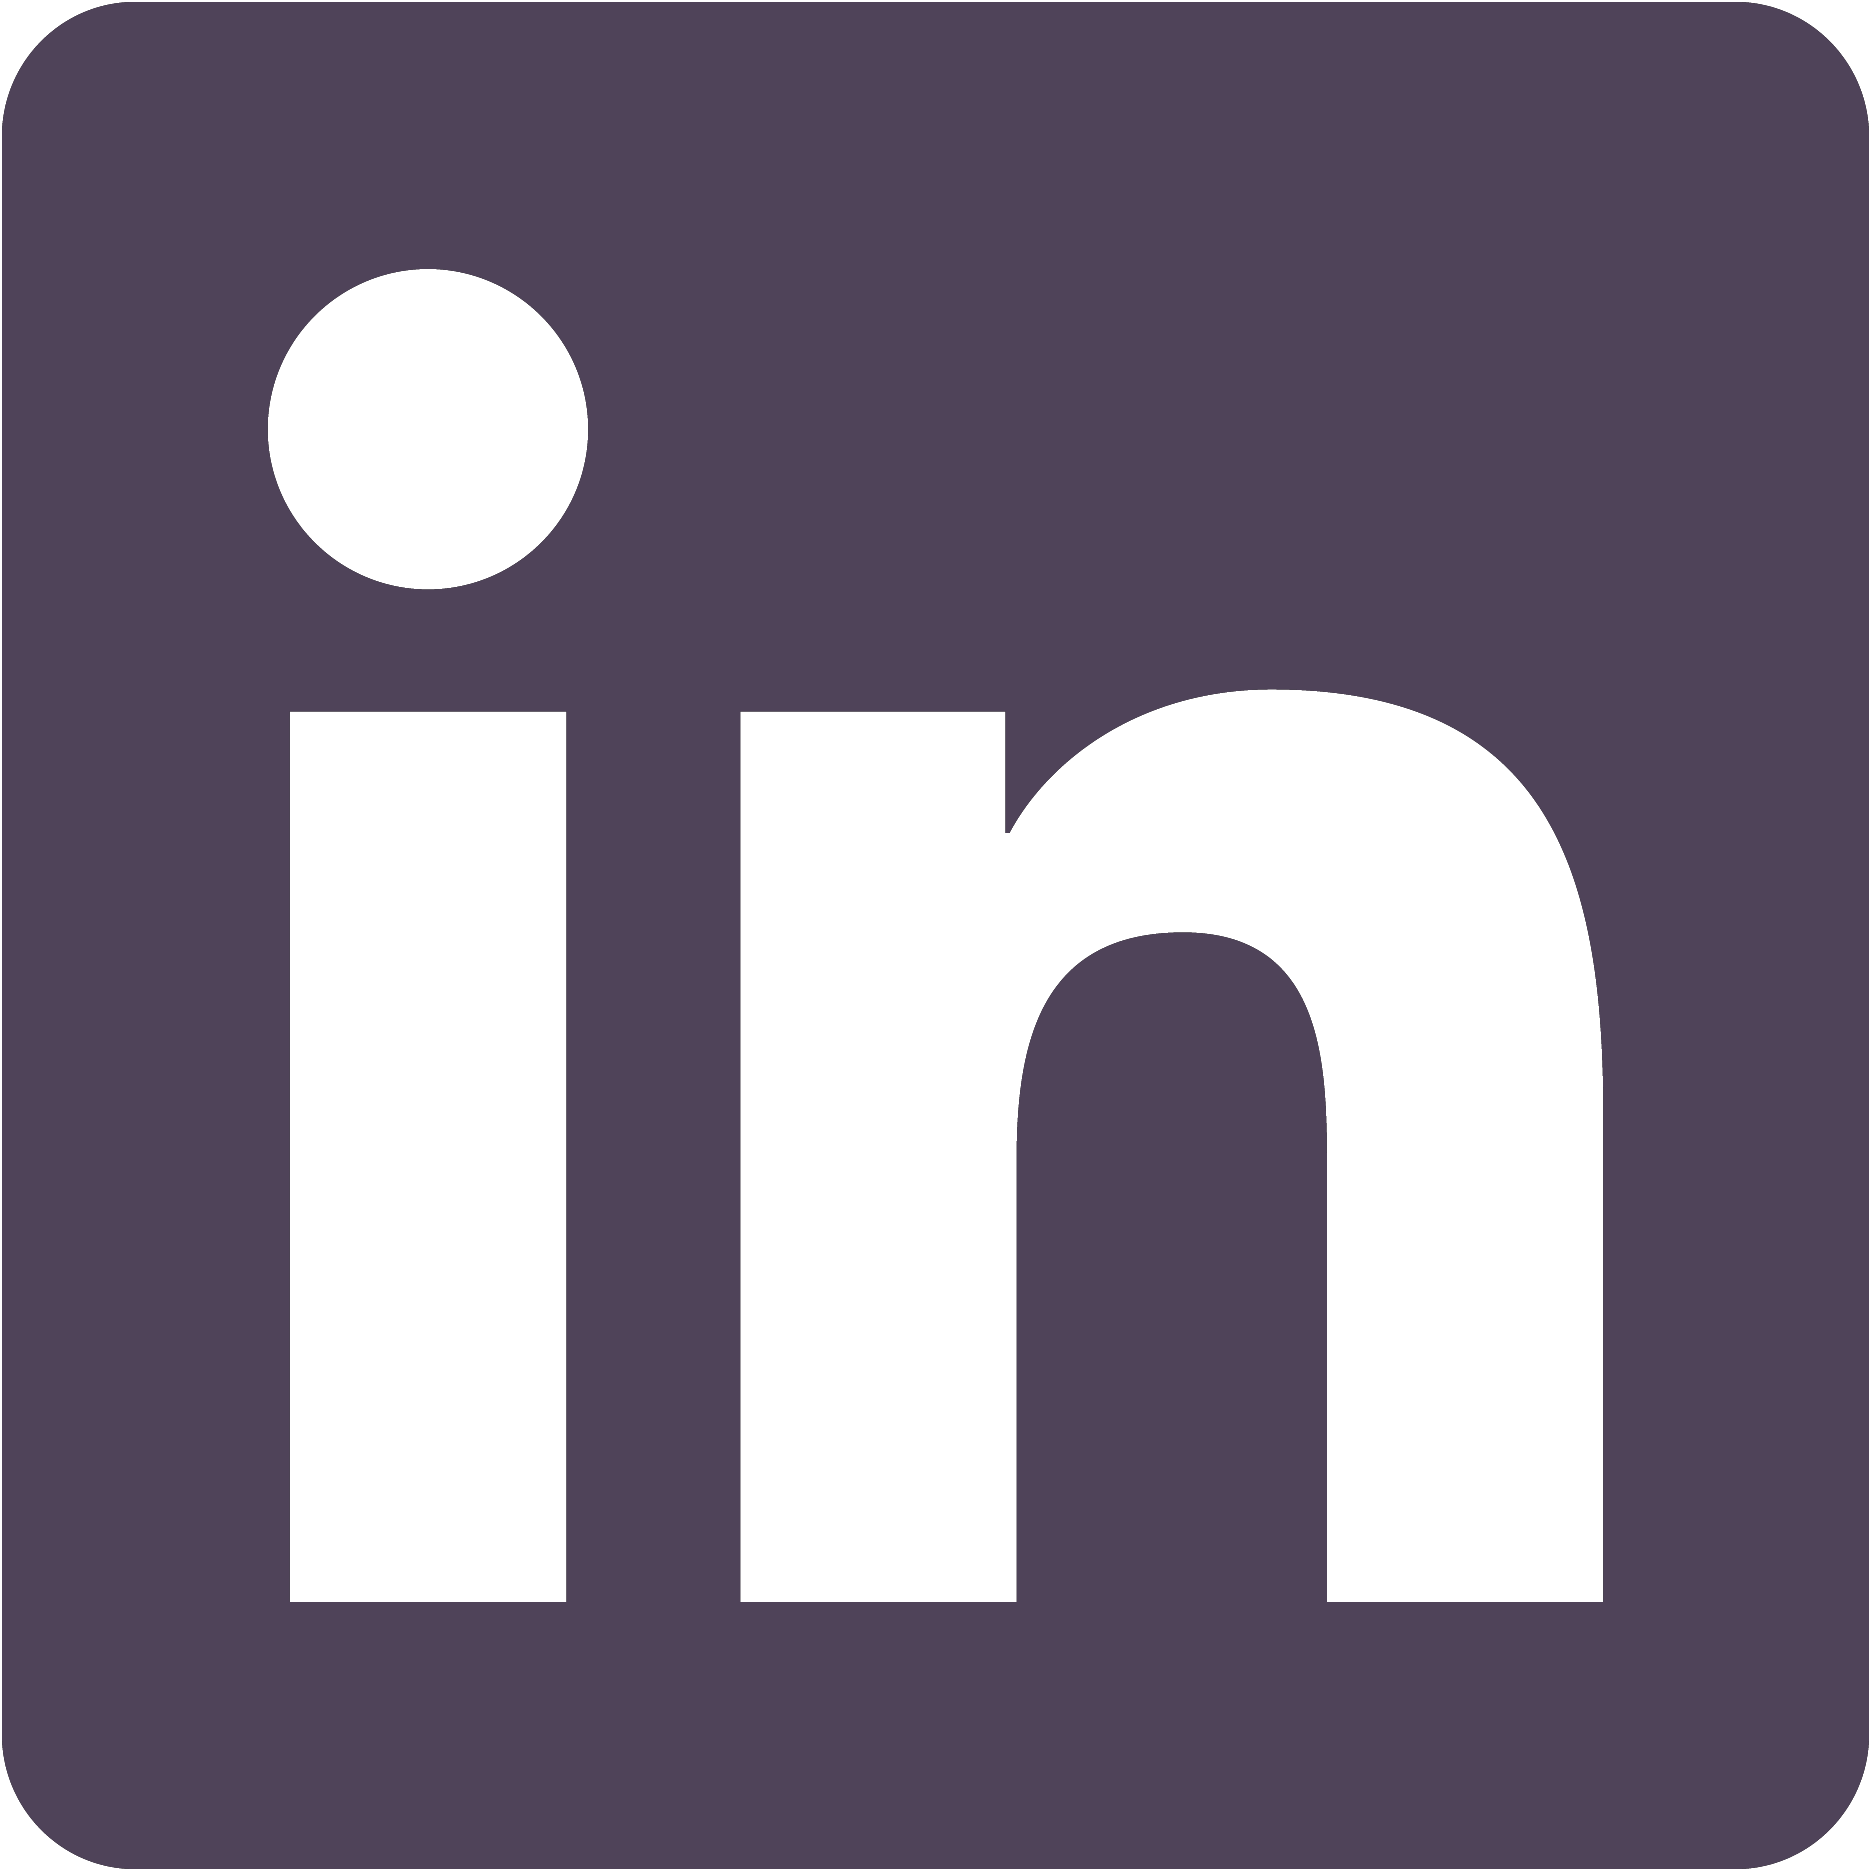
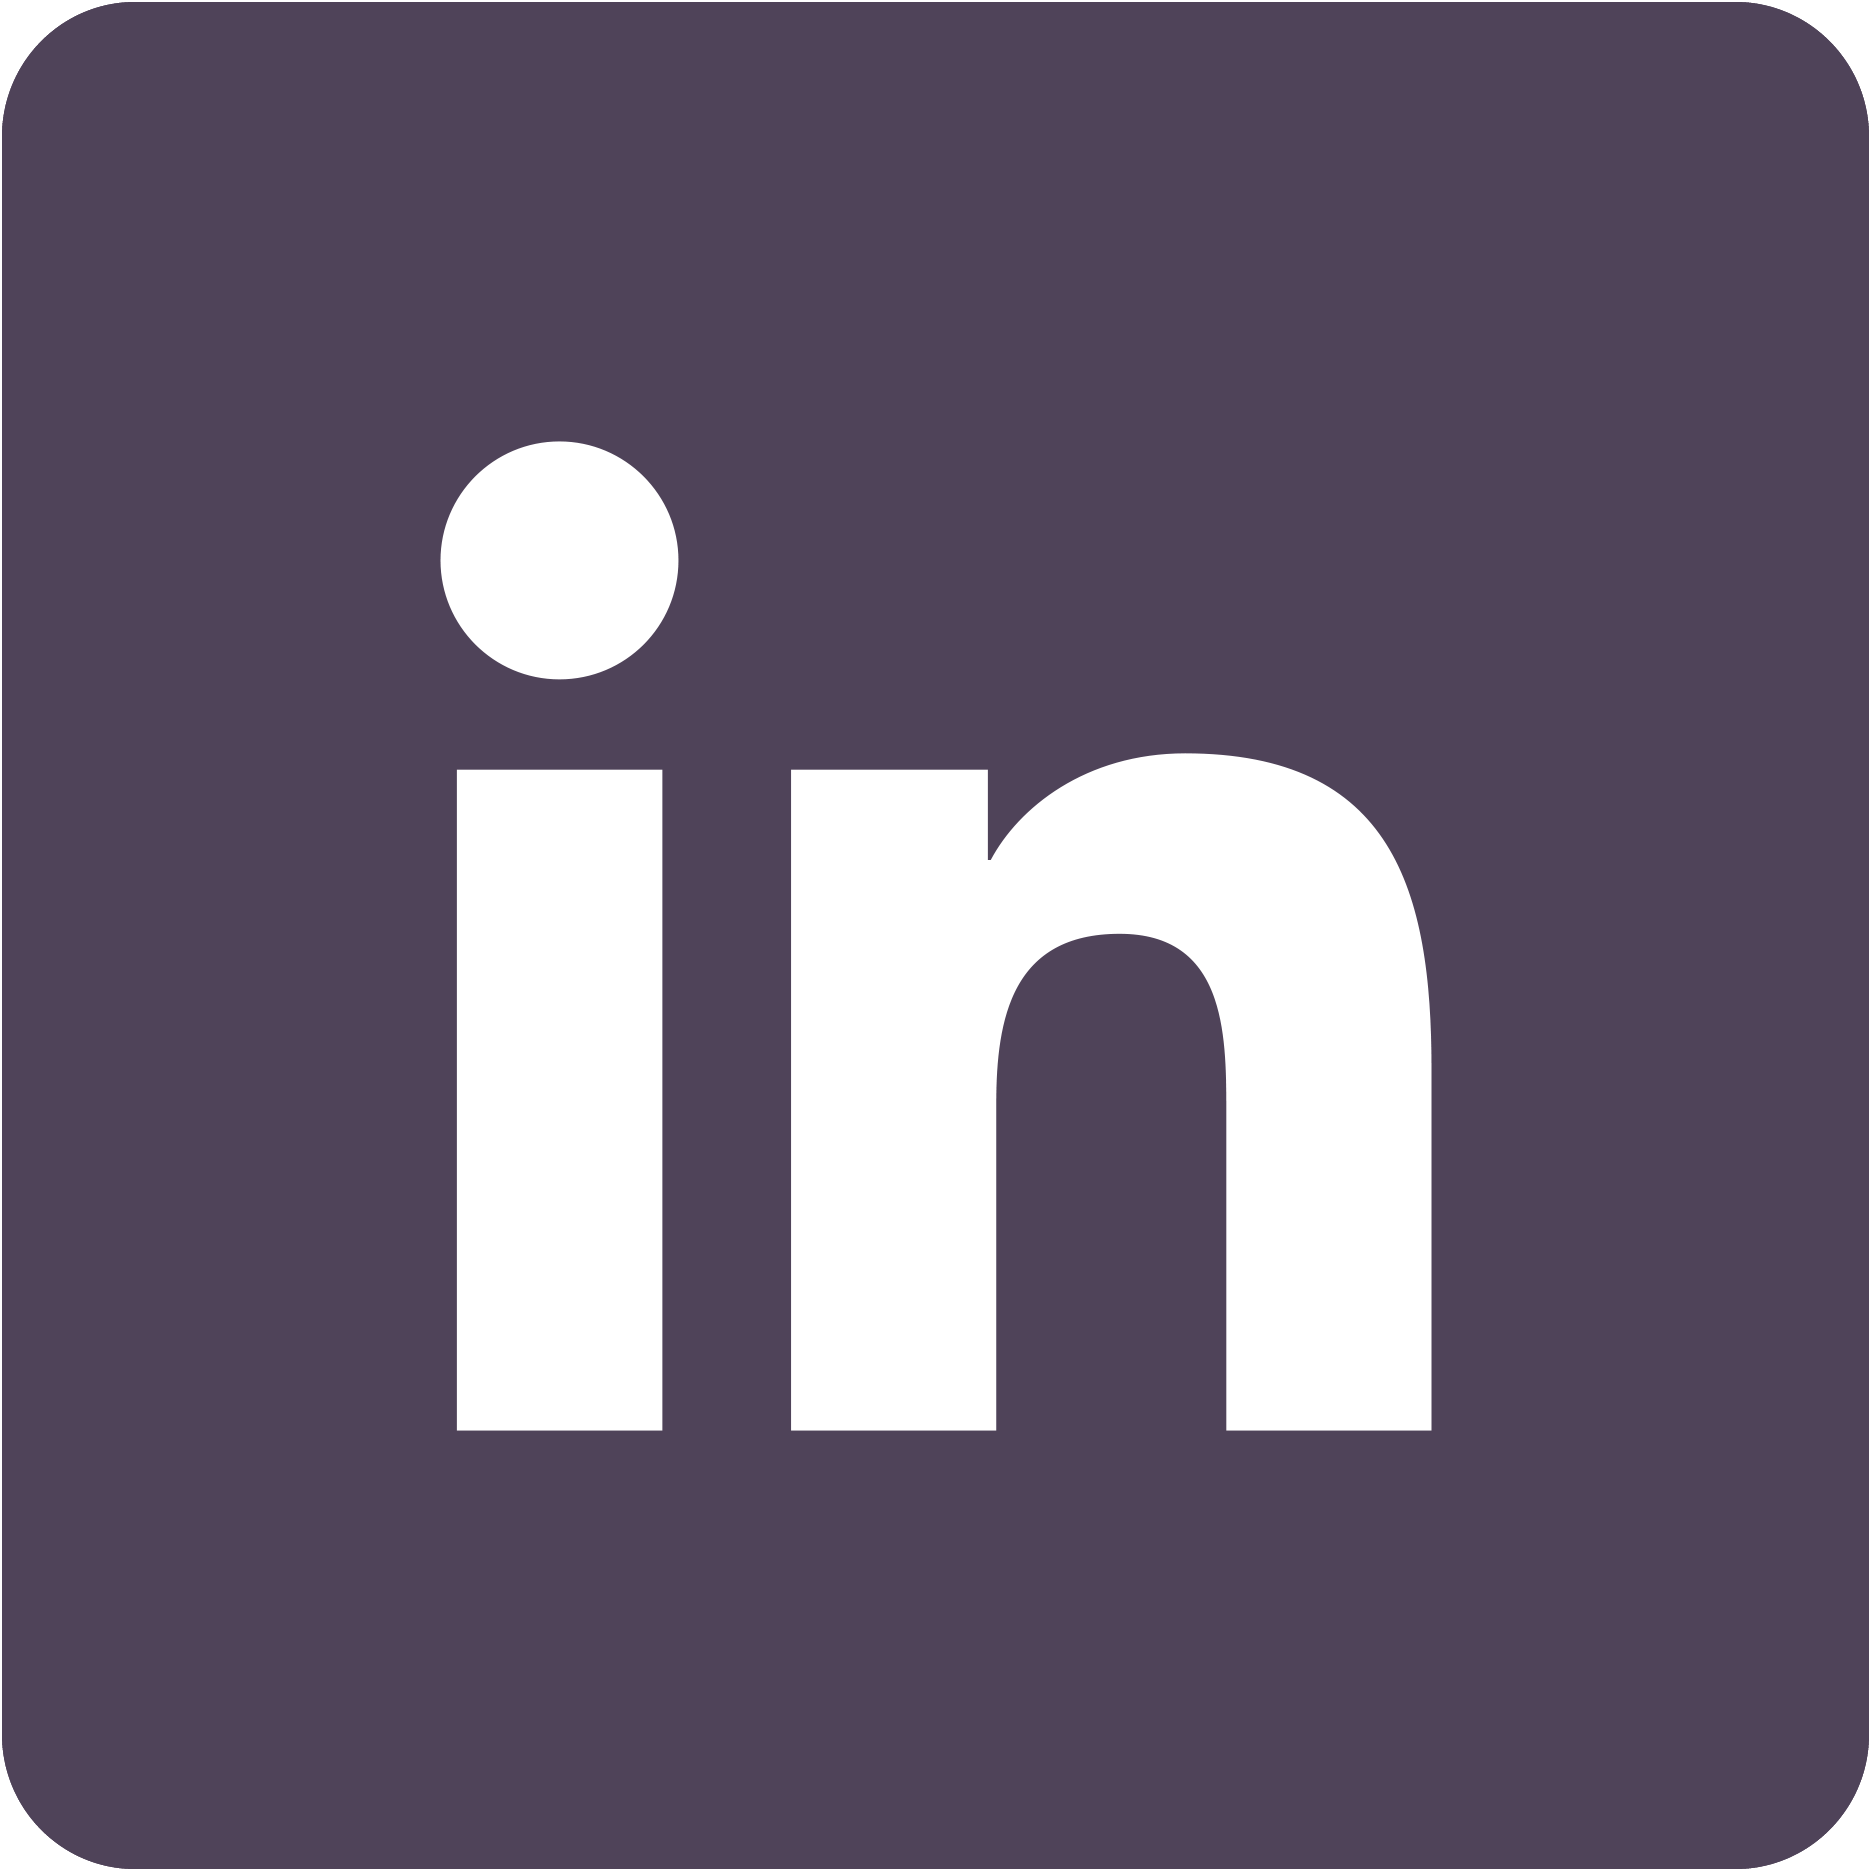
fixes, visual changes

Changed region(s): [[0.124, 0.124, 0.868, 0.868]]

diff --git a/index.html b/index.html
@@ -32,9 +32,11 @@
                     <p class="about-text">Hello there! My name is Jeronimas, but you can call me Jay.<br> I am currently
                         looking for job opportunities while I am on my journey of
                         becoming a web developer. If you believe that I can be helpful to you, feel free to contact me
-                        on my <a style="text-decoration: underline" href="https://www.linkedin.com/in/jzimantas/" target="_blank">LinkedIn</a>. In the near
+                        on my <a style="text-decoration: underline" href="https://www.linkedin.com/in/jzimantas/"
+                            target="_blank">LinkedIn</a>. In the near
                         future I hope to be able to combine my newly acquired knowledge with my educational
-                        background in digital marketing. I found learning development and creating pages a lot of fun, so I
+                        background in digital marketing. I found learning development and creating pages a lot of fun,
+                        so I
                         won't be stopping anytime soon, and so this page will be updated often.</p>
                 </div>
                 <img class="picture-me" src="favicon.png"></img>
@@ -92,28 +94,33 @@
                 <div class="link-box">
                     <div class="link-content">
                         <div class="link-icon"><a href="https://www.linkedin.com/in/jzimantas/" target="_blank"><img
-                                    src="src\svg\linkedin-brands.png" class="link-image"></a></div>
+                                    src="src\svg\linkedin-brands.png" class="link-image"></a>
+                        </div>
                         <h3 class="link-name">LinkedIn</h3>
                     </div>
                 </div>
                 <div class="link-box">
                     <div class="link-content">
                         <div class="link-icon"><a href="https://github.com/Jabronski" target="_blank"><img
-                                    src="src\svg\github-square-brands.png" class="link-image"></a></div>
+                                    src="src\svg\github-square-brands.png" class="link-image"></a>
+                        </div>
                         <h3 class="link-name">GitHub</h3>
                     </div>
                 </div>
                 <div class="link-box">
                     <div class="link-content">
                         <div class="link-icon"><a href="https://codepen.io/jzim" target="_blank"><img
-                                    src="src\svg\codepen-brands.png" class="link-image"></a></div>
+                                    src="src\svg\codepen-brands.png" class="link-image"></a>
+                            <div class="img-background"></div>
+                        </div>
                         <h3 class="link-name">CodePen</h3>
                     </div>
                 </div>
                 <div class="link-box">
                     <div class="link-content">
                         <div class="link-icon"><a href="https://www.freecodecamp.org/jzim" target="_blank"><img
-                                    src="src\svg\free-code-camp-brands.png" class="link-image"></a></div>
+                                    src="src\svg\free-code-camp-brands.png" class="link-image"></a>
+                        </div>
                         <h3 class="link-name">FreeCodeCamp</h3>
                     </div>
                 </div>

diff --git a/src/main-style.css b/src/main-style.css
@@ -67,7 +67,7 @@ h1,h2,h3,h4,h5,h6 {
     flex-direction: row;
     align-items: center;
     flex-wrap: nowrap;
-    padding-left: 3em;
+    padding-left: 10em;
     white-space:nowrap;
     text-overflow:ellipsis;
 }
@@ -91,7 +91,7 @@ h1,h2,h3,h4,h5,h6 {
 
 .nav-navigation {
     display: flex;
-    margin-right: 3em;
+    margin-right: 10em;
     font-size: 1em;
     border: var(--border2);
     border-radius: 0.25em;
@@ -106,10 +106,14 @@ h1,h2,h3,h4,h5,h6 {
     padding: 0em 1.5em;
     border-right: var(--border2);
     font-weight: 600;
+    transition-duration: 0.1s;
 }
 
 .nav-btn:hover {
-    background-color: rgba(0,0,0,.100);
+    border-color: rgba(0,0,0,0.2);
+    box-shadow: 0 2px 6px rgb(0 0 0 / 20%);
+    transition-duration: 0.1s;
+    transition-delay: 0s;
 }
 
 
@@ -143,7 +147,6 @@ h1,h2,h3,h4,h5,h6 {
 }
 
 .left-pane {
-    display: flex;
     flex-direction: column;
     justify-content: center;
     height: auto;
@@ -154,6 +157,7 @@ h1,h2,h3,h4,h5,h6 {
 .about-text {
     color: rgba(0,0,0,0.6);
     word-wrap: break-word;
+    font-size: 1,5vw;
 }
 
 .picture-me {
@@ -196,6 +200,7 @@ h1,h2,h3,h4,h5,h6 {
 
 .skill-content1, .skill-content2, .skill-content3 {
     display: flex;
+    background-color: rgb(255, 255, 255);
     flex-direction: column;
     align-items: stretch;
     justify-content: center;
@@ -314,11 +319,16 @@ h1,h2,h3,h4,h5,h6 {
 
 .link-box {
     flex: 0 0 20%;
-    justify-content: space-between;
     max-width: 20%;
-    width: 100%;
-    padding-right: 1em;
-    padding-left: 1em;
+    display: flex;
+    flex-direction: column;
+    align-items: stretch;
+    justify-content: center;
+    border: var(--border2);
+    border-radius: 6px;
+    transition: border-color 50ms linear,box-shadow 50ms linear;
+    margin: 1em;
+
 }
 
 .link-content {
@@ -328,26 +338,45 @@ h1,h2,h3,h4,h5,h6 {
     justify-content: center;
     align-items: center;
     flex-direction: column;
+    height: 300px;
     min-width: 0;
     word-wrap: break-word;
+}
+
+.link-content:hover {
+    border-color: rgba(0,0,0,0.2);
+    box-shadow: 0 4px 12px rgb(0 0 0 / 20%);
+    transition-duration: 0.2s;
+    transition-delay: 0s;
+
+}
+
+.link-content:hover .link-icon {
+    transform: translateY(5%);
+    max-width: 115px;
+    max-height: 115px;
 }
 
 .link-icon {
     margin: 0;
     padding: 0;
-    width: 200px;
-    height: 200px;
+    max-width: 125px;
+    max-height: 125px;
     transition-duration: 0.5s;
     transition-delay: 0s;
+    border-radius: 100%;
 }
 
 .link-image {
+    box-sizing: border-box;
+    -moz-box-sizing: border-box;
+    -webkit-box-sizing: border-box;
     width: 100%;
     height: 100%;
-    fill:var(--clr2);
-    border-radius: 1em;
-    
+    border-radius: 100%;
 }
+
+
 
 .link-icon:hover {
     transition-duration: 0.5s;
@@ -356,3 +385,8 @@ h1,h2,h3,h4,h5,h6 {
     height: 190px;
 }
 
+.link-name {
+    padding: 1em;
+    font-size: 1.5em;
+    margin: 0;
+}
